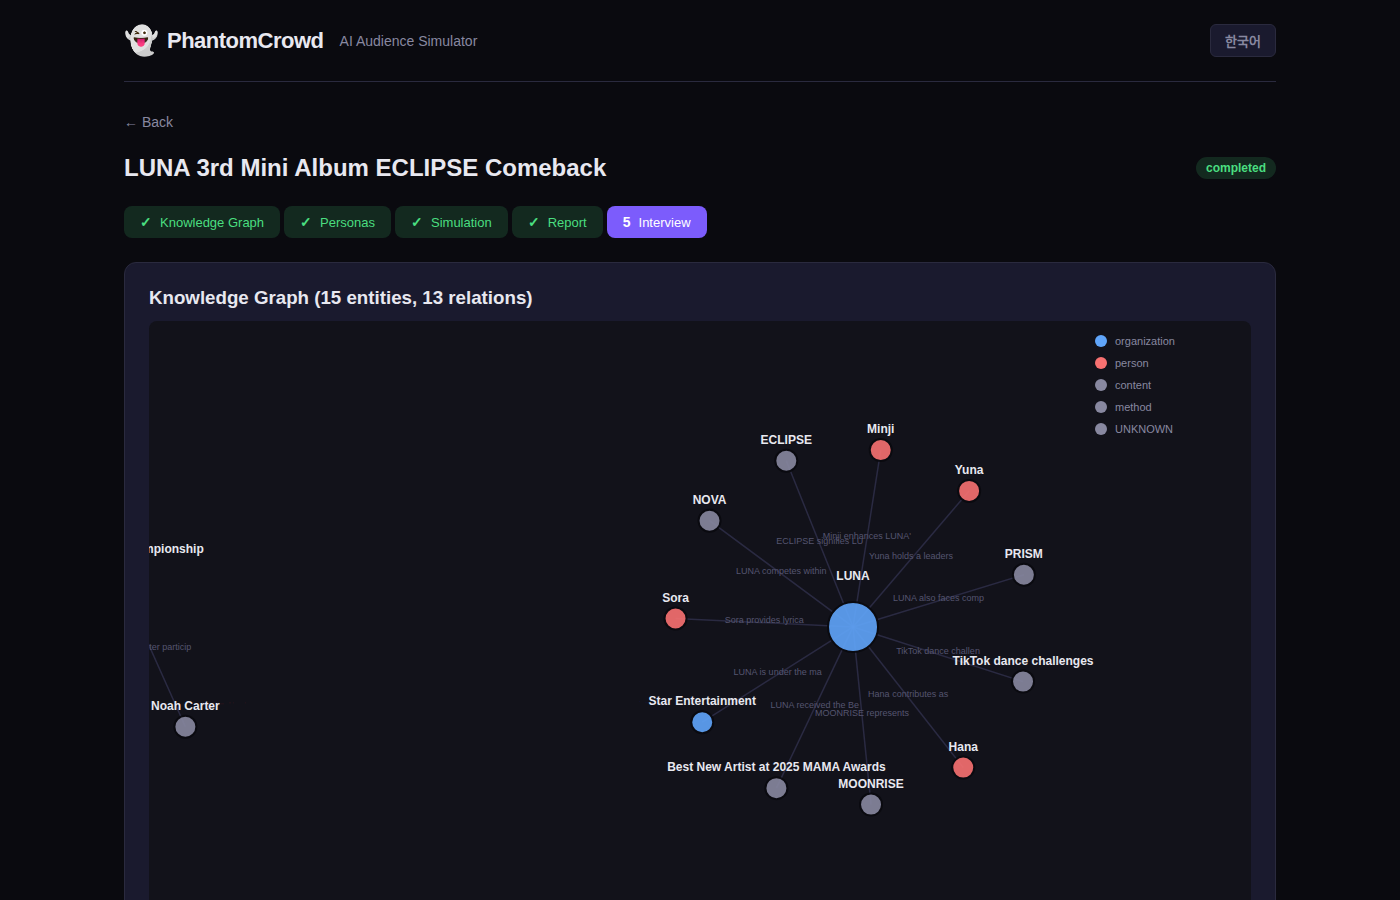
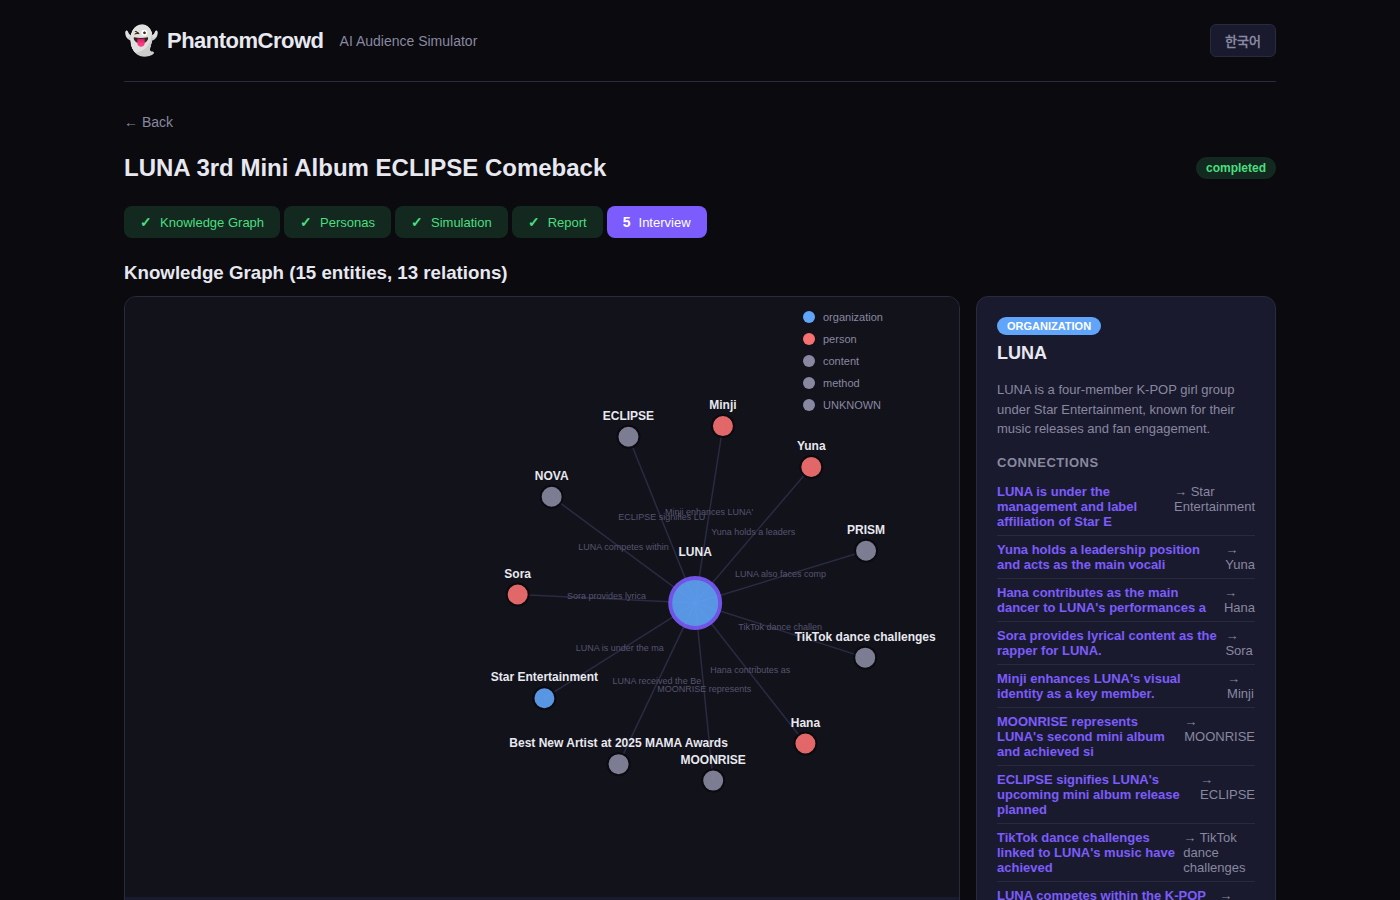
Professional UI: graph node detail sidebar + 2-panel report layout
Graph:
- Click node → right sidebar shows entity details, type badge, connections
- Empty state prompt "Click a node to see details"
- MiroFish-style 2-panel layout (graph + detail panel)

Report:
- 2-panel layout: report sections (left) + sticky interview panel (right)
- Interview panel always visible while scrolling report
- Improved card styling with consistent spacing
- Updated screenshots

diff --git a/frontend/src/views/CampaignView.vue b/frontend/src/views/CampaignView.vue
@@ -24,9 +24,34 @@
     </section>
 
     <!-- Step 2: Graph Ready -->
-    <section v-if="graphData && graphData.stats.nodes > 0" class="card step-card">
+    <section v-if="graphData && graphData.stats.nodes > 0" class="graph-section">
       <h3>{{ $t('campaign.graphTitle', { nodes: graphData.stats.nodes, edges: graphData.stats.edges }) }}</h3>
-      <div ref="graphContainer" class="graph-container"></div>
+      <div class="graph-layout">
+        <div class="graph-main">
+          <div ref="graphContainer" class="graph-container"></div>
+        </div>
+        <div class="graph-sidebar" v-if="selectedNode">
+          <div class="node-detail-card">
+            <div class="node-detail-header">
+              <span class="node-type-badge" :style="{ background: selectedNode.color }">{{ selectedNode.type }}</span>
+              <h4>{{ selectedNode.label }}</h4>
+            </div>
+            <div v-if="selectedNode.description" class="node-description">
+              {{ selectedNode.description }}
+            </div>
+            <div class="node-connections">
+              <h5>Connections</h5>
+              <div v-for="conn in selectedNode.connections" :key="conn.target" class="connection-item">
+                <span class="conn-label">{{ conn.label }}</span>
+                <span class="conn-target">→ {{ conn.target }}</span>
+              </div>
+            </div>
+          </div>
+        </div>
+        <div class="graph-sidebar graph-sidebar-empty" v-else>
+          <p>Click a node to see details</p>
+        </div>
+      </div>
     </section>
 
     <!-- Step 3: Simulation -->
@@ -54,7 +79,7 @@
       </div>
     </section>
 
-    <!-- Step 4: Report -->
+    <!-- Step 4: Report + Interview (2-panel layout) -->
     <section v-if="campaign.report" class="report-section">
       <!-- Score Cards -->
       <div class="score-grid">
@@ -76,43 +101,53 @@
         </div>
       </div>
 
-      <!-- Summary -->
-      <div class="card">
-        <h3>{{ $t('report.summary') }}</h3>
-        <p class="summary-text">{{ campaign.report.summary }}</p>
-      </div>
+      <!-- 2-panel: Report (left) + Interview (right) -->
+      <div class="report-layout">
+        <div class="report-main">
+          <!-- Summary -->
+          <div class="report-card">
+            <h3>{{ $t('report.summary') }}</h3>
+            <p class="summary-text">{{ campaign.report.summary }}</p>
+          </div>
 
-      <!-- Report Sections -->
-      <div v-for="sec in campaign.report.sections" :key="sec.title" class="card">
-        <h3>{{ sec.title }}</h3>
-        <p class="section-content">{{ sec.content }}</p>
-      </div>
+          <!-- Report Sections -->
+          <div v-for="sec in campaign.report.sections" :key="sec.title" class="report-card">
+            <h3>{{ sec.title }}</h3>
+            <p class="section-content">{{ sec.content }}</p>
+          </div>
 
-      <!-- Recommendations -->
-      <div class="card">
-        <h3>{{ $t('report.recommendations') }}</h3>
-        <ul class="rec-list">
-          <li v-for="rec in campaign.report.recommendations" :key="rec">{{ rec }}</li>
-        </ul>
-      </div>
-    </section>
+          <!-- Recommendations -->
+          <div class="report-card">
+            <h3>{{ $t('report.recommendations') }}</h3>
+            <ul class="rec-list">
+              <li v-for="rec in campaign.report.recommendations" :key="rec">{{ rec }}</li>
+            </ul>
+          </div>
+        </div>
 
-    <!-- Step 5: Interview -->
-    <section v-if="campaign.status === 'completed'" class="card step-card">
-      <h3>{{ $t('interview.title') }}</h3>
-      <div class="interview-form">
-        <select v-model="interviewAgent">
-          <option value="">{{ $t('interview.selectAgent') }}</option>
-          <option v-for="name in agentNames" :key="name" :value="name">{{ name }}</option>
-        </select>
-        <input v-model="interviewQuestion" :placeholder="$t('interview.placeholder')" @keyup.enter="doInterview" />
-        <button class="btn-primary" @click="doInterview" :disabled="!interviewAgent || !interviewQuestion || interviewing">
-          {{ interviewing ? $t('interview.asking') : $t('interview.ask') }}
-        </button>
-      </div>
-      <div v-if="interviewResponse" class="interview-response card">
-        <strong>@{{ interviewAgent }}:</strong>
-        <p>{{ interviewResponse }}</p>
+        <!-- Interview sidebar -->
+        <div class="interview-sidebar" v-if="campaign.status === 'completed'">
+          <div class="interview-panel">
+            <h3>{{ $t('interview.title') }}</h3>
+            <select v-model="interviewAgent">
+              <option value="">{{ $t('interview.selectAgent') }}</option>
+              <option v-for="name in agentNames" :key="name" :value="name">{{ name }}</option>
+            </select>
+            <div class="interview-input-row">
+              <input v-model="interviewQuestion" :placeholder="$t('interview.placeholder')" @keyup.enter="doInterview" />
+              <button class="btn-primary btn-sm" @click="doInterview" :disabled="!interviewAgent || !interviewQuestion || interviewing">
+                {{ interviewing ? '...' : $t('interview.ask') }}
+              </button>
+            </div>
+            <div v-if="interviewResponse" class="interview-response">
+              <div class="interview-agent-name">@{{ interviewAgent }}</div>
+              <p>{{ interviewResponse }}</p>
+            </div>
+            <div v-else class="interview-hint">
+              <p>Select an agent and ask them about their reactions during the simulation.</p>
+            </div>
+          </div>
+        </div>
       </div>
     </section>
 
@@ -142,6 +177,11 @@ const graphData = ref<GraphData | null>(null)
 const simStatus = ref<SimStatus | null>(null)
 const actions = ref<SimActionItem[]>([])
 const graphContainer = ref<HTMLElement | null>(null)
+
+const selectedNode = ref<{
+  id: string; label: string; type: string; description: string; color: string;
+  connections: { label: string; target: string }[]
+} | null>(null)
 
 const interviewAgentName = ref('')
 const interviewQuestion = ref('')
@@ -350,11 +390,27 @@ function renderGraph() {
       .on('end', (e, d: any) => { if (!e.active) simulation.alphaTarget(0); d.fx = null; d.fy = null })
     )
 
-  // Node hover glow
+  // Node hover + click
   node.on('mouseover', function() {
     d3.select(this).attr('stroke', '#7c5cfc').attr('stroke-width', 4)
   }).on('mouseout', function() {
     d3.select(this).attr('stroke', '#0a0a0f').attr('stroke-width', 2)
+  }).on('click', (_event: any, d: any) => {
+    // Find connections for this node
+    const conns = links
+      .filter((l: any) => (l.source?.id || l.source) === d.id || (l.target?.id || l.target) === d.id)
+      .map((l: any) => ({
+        label: l.label || 'related',
+        target: (l.source?.id || l.source) === d.id ? (l.target?.id || l.target) : (l.source?.id || l.source),
+      }))
+    selectedNode.value = {
+      id: d.id,
+      label: d.label,
+      type: d.type || 'unknown',
+      description: d.description || '',
+      color: getNodeColor(d.type),
+      connections: conns,
+    }
   })
 
   // Node labels
@@ -424,7 +480,32 @@ onUnmounted(() => { if (pollTimer) clearInterval(pollTimer) })
 .step-card p { color: var(--text-secondary); line-height: 1.5; }
 
 /* Graph */
-.graph-container { width: 100%; height: 600px; background: var(--bg-secondary); border-radius: 8px; overflow: hidden; }
+.graph-section { margin-bottom: 8px; }
+.graph-section h3 { margin-bottom: 12px; }
+.graph-layout { display: grid; grid-template-columns: 1fr 300px; gap: 16px; }
+.graph-main { background: var(--bg-card); border: 1px solid var(--border); border-radius: var(--radius); overflow: hidden; }
+.graph-container { width: 100%; height: 600px; background: var(--bg-secondary); }
+
+.graph-sidebar { background: var(--bg-card); border: 1px solid var(--border); border-radius: var(--radius); padding: 20px; }
+.graph-sidebar-empty { display: flex; align-items: center; justify-content: center; }
+.graph-sidebar-empty p { color: var(--text-secondary); font-size: 14px; }
+
+.node-detail-card { display: flex; flex-direction: column; gap: 16px; }
+.node-detail-header { display: flex; flex-direction: column; gap: 8px; }
+.node-detail-header h4 { font-size: 18px; margin: 0; }
+.node-type-badge {
+  display: inline-block; width: fit-content; padding: 3px 10px;
+  border-radius: 12px; font-size: 11px; font-weight: 600;
+  color: white; text-transform: uppercase;
+}
+.node-description { color: var(--text-secondary); font-size: 13px; line-height: 1.5; }
+.node-connections h5 { font-size: 13px; color: var(--text-secondary); margin-bottom: 8px; text-transform: uppercase; letter-spacing: 0.5px; }
+.connection-item {
+  display: flex; gap: 8px; padding: 6px 0;
+  border-bottom: 1px solid var(--border); font-size: 13px;
+}
+.conn-label { color: var(--accent); font-weight: 600; }
+.conn-target { color: var(--text-secondary); }
 
 /* Action Feed */
 .action-feed { max-height: 400px; overflow-y: auto; display: flex; flex-direction: column; gap: 8px; }
@@ -448,17 +529,38 @@ onUnmounted(() => { if (pollTimer) clearInterval(pollTimer) })
 .score-value span { font-size: 16px; color: var(--text-secondary); font-weight: 400; }
 
 .report-section { display: flex; flex-direction: column; gap: 16px; }
-.summary-text { color: var(--text-secondary); line-height: 1.6; font-size: 15px; }
-.section-content { color: var(--text-secondary); line-height: 1.6; white-space: pre-wrap; }
+.report-layout { display: grid; grid-template-columns: 1fr 340px; gap: 16px; }
+.report-main { display: flex; flex-direction: column; gap: 16px; }
+.report-card {
+  background: var(--bg-card); border: 1px solid var(--border);
+  border-radius: var(--radius); padding: 24px;
+}
+.report-card h3 { margin-bottom: 12px; font-size: 16px; }
+.summary-text { color: var(--text-secondary); line-height: 1.7; font-size: 15px; }
+.section-content { color: var(--text-secondary); line-height: 1.7; white-space: pre-wrap; font-size: 14px; }
 .rec-list { padding-left: 20px; }
-.rec-list li { color: var(--text-secondary); margin-bottom: 8px; line-height: 1.5; }
+.rec-list li { color: var(--text-secondary); margin-bottom: 10px; line-height: 1.6; }
 
-/* Interview */
-.interview-form { display: flex; gap: 8px; margin-bottom: 16px; }
-.interview-form select { width: 200px; }
-.interview-form input { flex: 1; }
-.interview-response { margin-top: 12px; }
-.interview-response p { color: var(--text-secondary); line-height: 1.5; margin-top: 8px; }
+/* Interview sidebar */
+.interview-sidebar {
+  position: sticky; top: 24px; align-self: start;
+}
+.interview-panel {
+  background: var(--bg-card); border: 1px solid var(--border);
+  border-radius: var(--radius); padding: 20px;
+  display: flex; flex-direction: column; gap: 12px;
+}
+.interview-panel h3 { font-size: 15px; margin: 0; }
+.interview-panel select { width: 100%; }
+.interview-input-row { display: flex; gap: 6px; }
+.interview-input-row input { flex: 1; font-size: 13px; padding: 8px 12px; }
+.btn-sm { padding: 8px 14px; font-size: 13px; }
+.interview-response {
+  background: var(--bg-secondary); border-radius: 8px; padding: 14px;
+}
+.interview-agent-name { font-weight: 700; font-size: 13px; color: var(--accent); margin-bottom: 6px; }
+.interview-response p { color: var(--text-secondary); line-height: 1.5; font-size: 13px; margin: 0; }
+.interview-hint p { color: var(--text-secondary); font-size: 12px; line-height: 1.4; }
 
 .error-card { border-color: var(--negative); }
 .error-card h3 { color: var(--negative); margin-bottom: 8px; }
